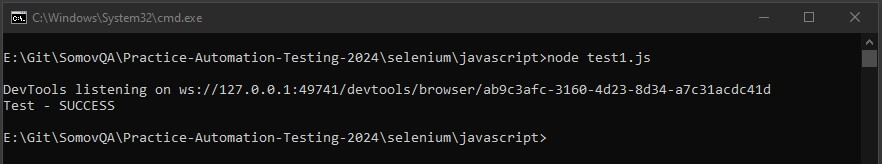
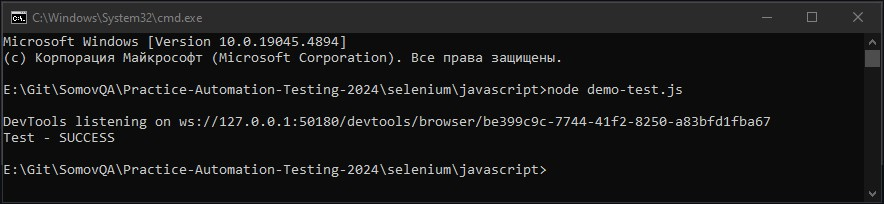
demo текст javascript

Changed region(s): [[0.0, 0.0, 1.0, 1.0], [0.0, 0.5183, 0.8878, 0.7012], [0.0, 0.7927, 0.6429, 0.8841]]

diff --git a/selenium/javascript/README.md b/selenium/javascript/README.md
@@ -31,7 +31,7 @@ npm install selenium-webdriver
 			</p>
 		</li>
 		<li>Открыть папку в редакторе Visual Studio Code</li>
-		<li>Создать файл test1.js и описать автотест следующим образом
+		<li>Создать файл demo-test.js и описать автотест следующим образом
 			<pre><code>
 const { Builder, Browser, By, Key, until } = require('selenium-webdriver');
 
@@ -58,7 +58,7 @@ const { Builder, Browser, By, Key, until } = require('selenium-webdriver');
 		</li>
 		<li>Запустить автотест командой
 			<pre><code>
-node test1.js
+node demo-test.js
 			</code></pre>
 			<p align="left">
 				<img src="https://github.com/Somov-QA/Practice-Automation-Testing-2024/blob/main/images/javascript_test1.jpg">
